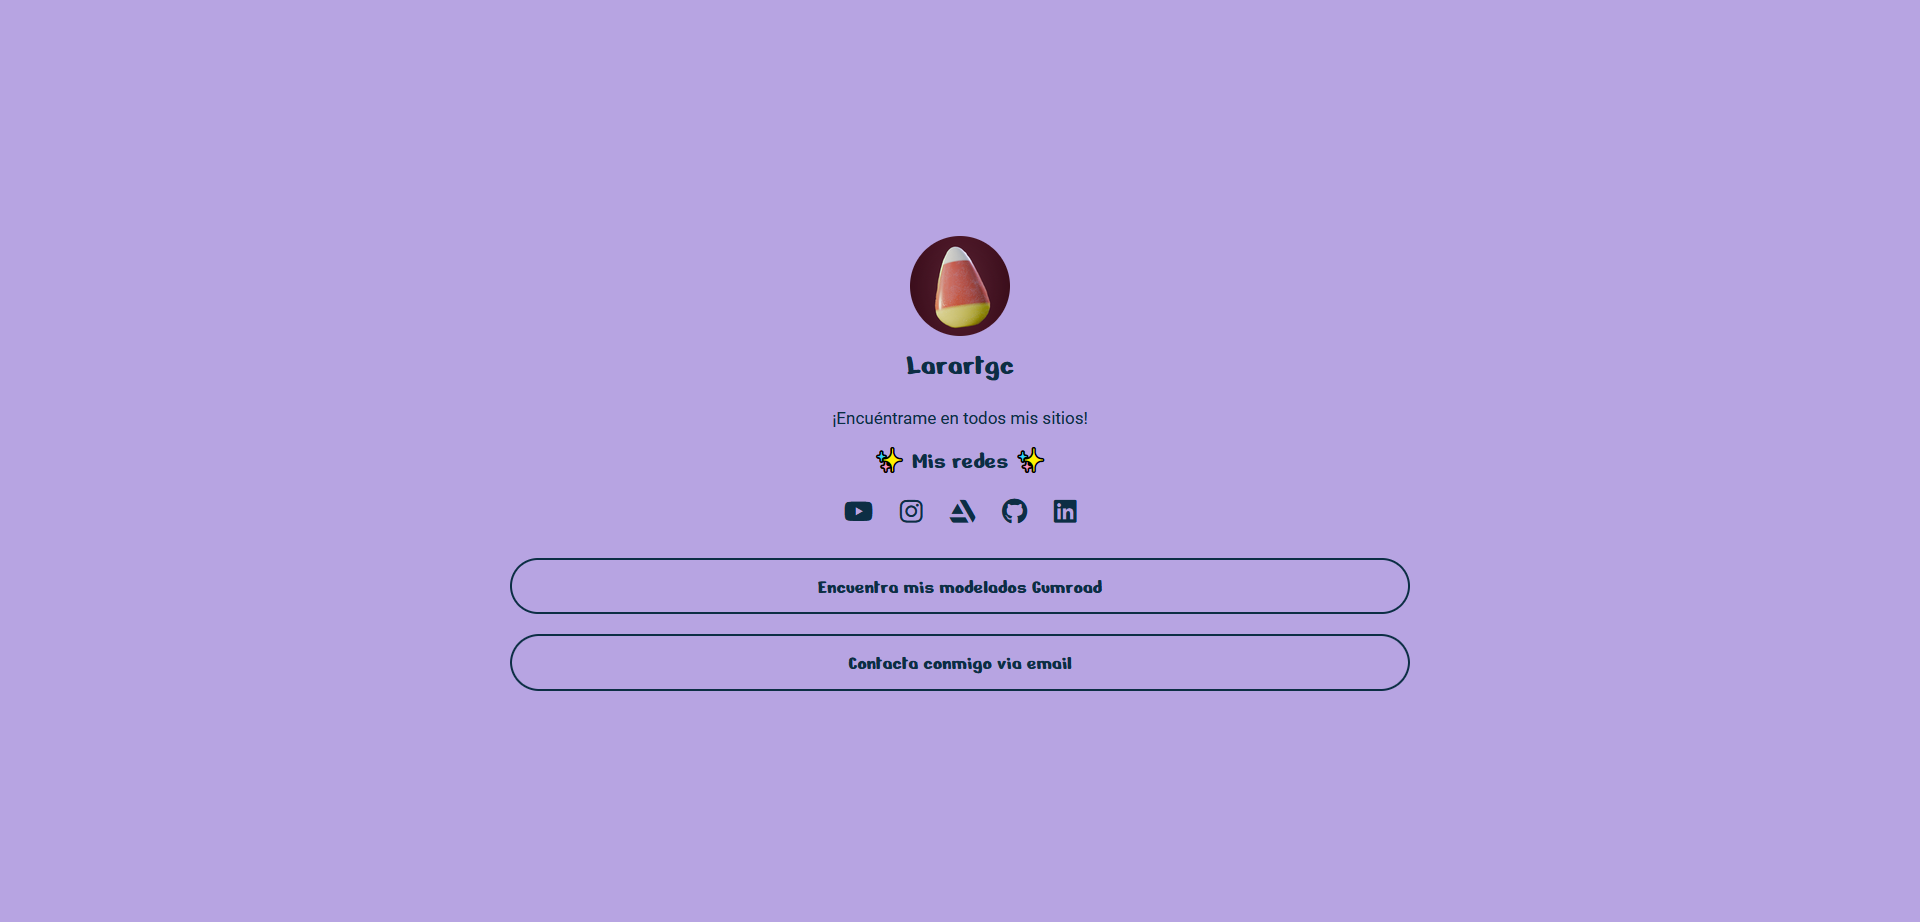
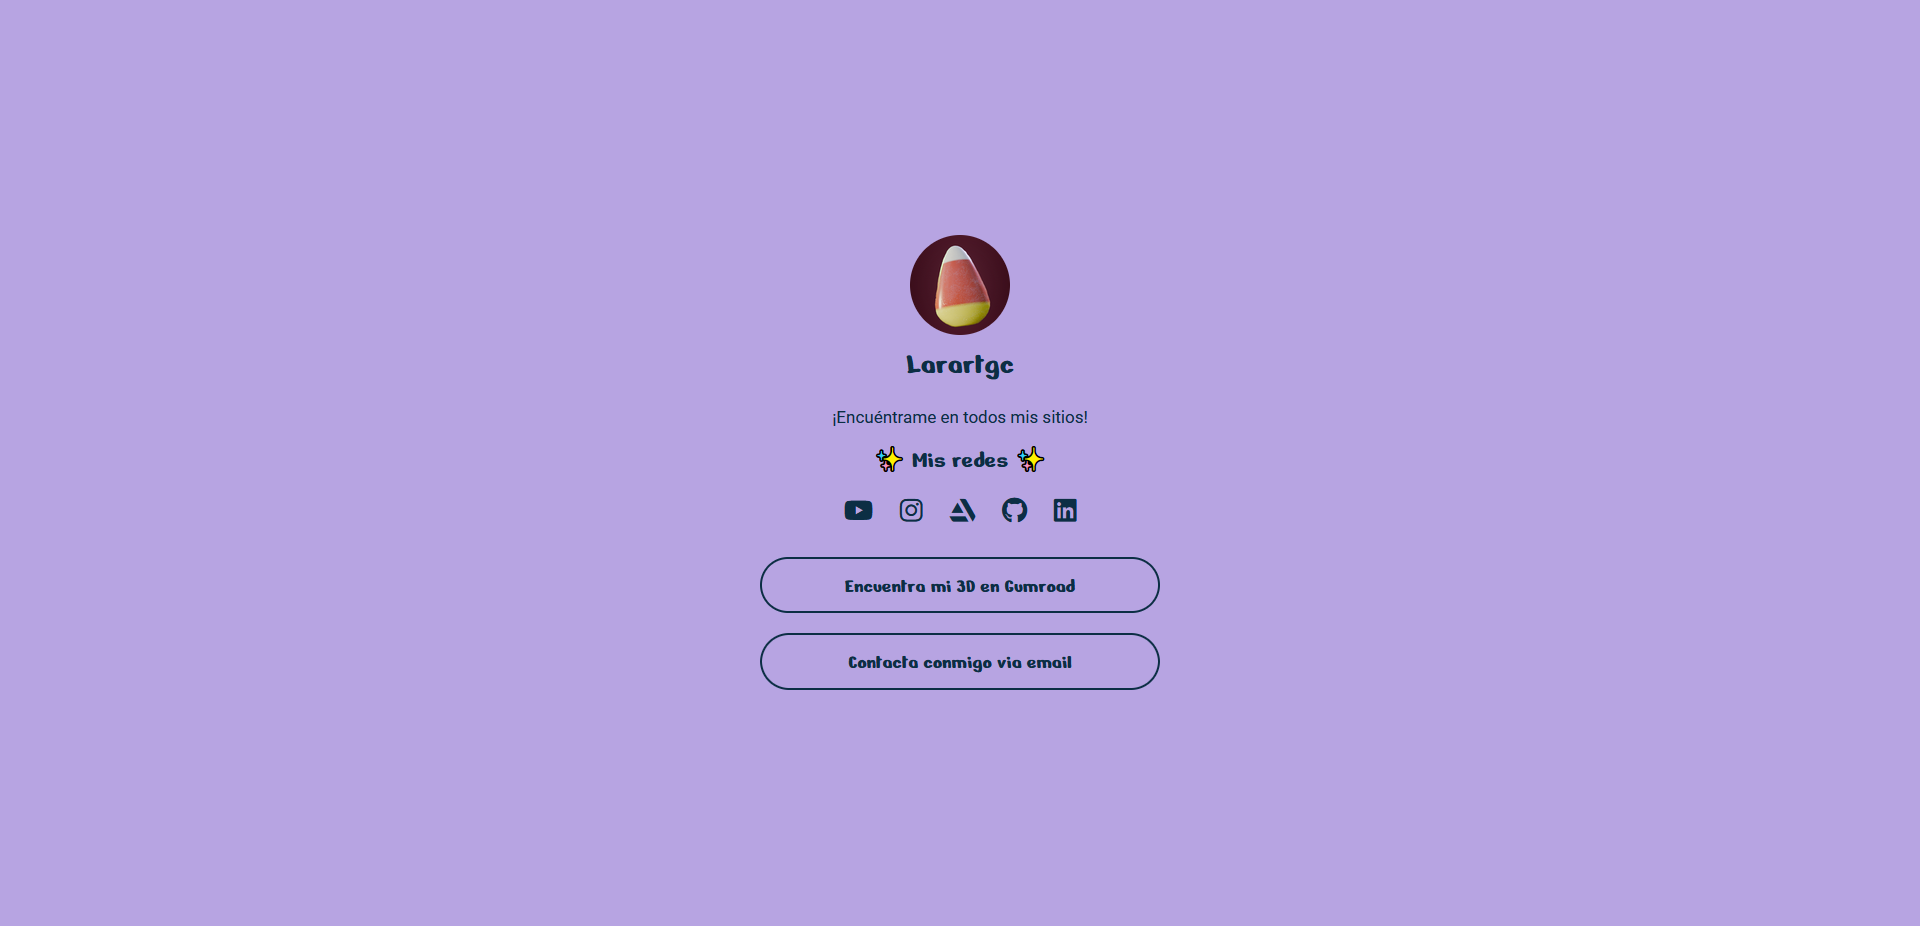
working

Changed region(s): [[0.375, 0.5466, 0.625, 0.7592], [0.4375, 0.2733, 0.5625, 0.5163]]

diff --git a/style.css b/style.css
@@ -27,7 +27,7 @@ body {
     max-width: 1440px;
     margin: auto;
     font-size: 1rem;
-    padding: 2rem;
+    padding: 3rem;
     background-color: var(--color-primary);
     color: var(--color-secundary);
 }
@@ -84,7 +84,7 @@ p{
 .card, .card2 {
     display: flex;
     flex-direction: column;
-    max-width: 900px;
+    max-width: 400px;
     margin: auto;
 
     & img {
